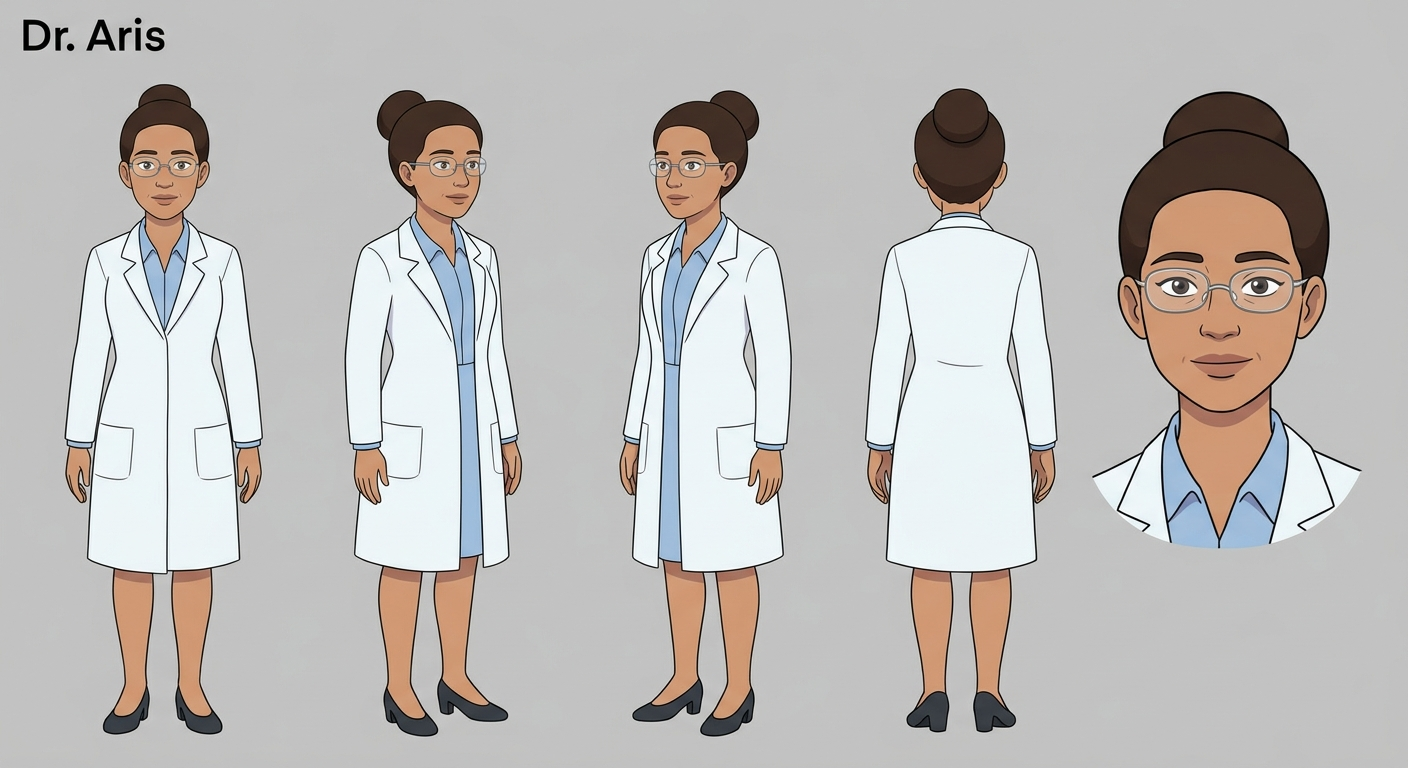
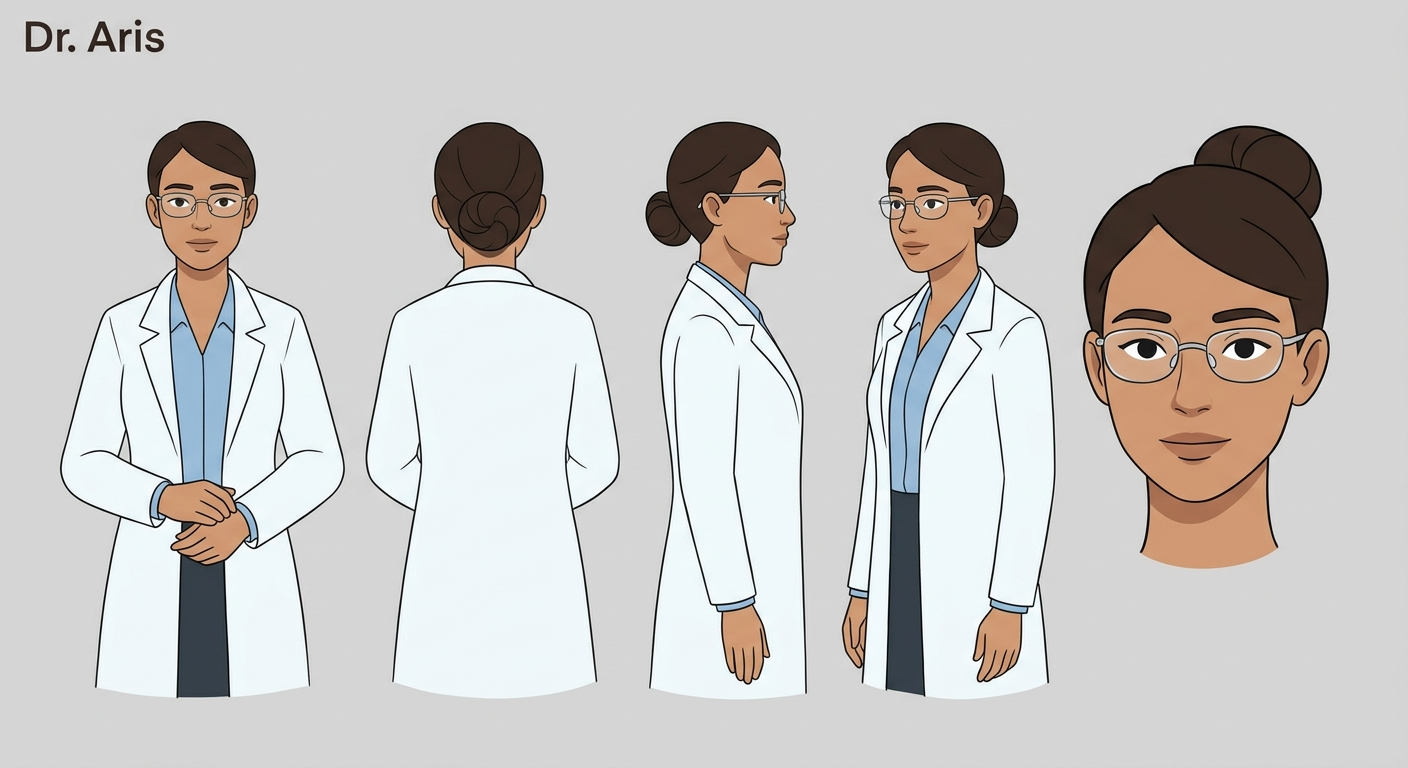
fixed delete files issue and updated character reference generation - Youssef

diff --git a/BackEnd/Image_Generation_Pipeline/Character_Generation/gemini_character_generate.py b/BackEnd/Image_Generation_Pipeline/Character_Generation/gemini_character_generate.py
@@ -61,7 +61,7 @@ def generate_characters(json_script) -> tuple[list[Path], list[str], list[Path]]
     • Maintain the specified visual style throughout the asset.
     • No text should appear in the image other than the character's name (included once in the top left corner of the image). Do not include captions, labels, or extraneous text.
     • The background should be a simple, neutral solid color (e.g., white, beige, or light gray) that does not distract from the character. Avoid complex backgrounds, patterns, scenery, as well as any borders, frames, grids, or dividing lines; the character should appear cleanly presented without visual boundaries.
-    • Show the character from exactly five views within a single image to provide a complete reference set: 1 front view, 2 side views (45 degrees), 1 back view, and 1 dedicated close-up of the face to clearly capture facial features and identity. Do not add additional views, poses, or expressions beyond these specified angles.
+    • Show the character from exactly five views within a single image to provide a complete reference set: 1 front view, 1 back view, 1 side view, 1 angled view (45 degrees), and 1 dedicated close-up of the face to clearly capture facial features and identity. Do not add additional views, poses, or expressions beyond these specified angles.
     • Ensure that there is no overlapping, cropping, or visual obstruction of the character in any of the views. The character should be fully visible and clearly distinguishable in each view.
     
     Your output should create a clear, production-ready character reference asset that can be used consistently throughout the simulation.

diff --git a/BackEnd/api.py b/BackEnd/api.py
@@ -66,7 +66,7 @@ def generate_initial_script(scene_information: SceneInformation, background_task
         
         background_tasks.add_task(gemini_script_generation.delete_uploaded_files, file_ids)
         
-    background_tasks.add_task(md_path.unlink) # delete the merged markdown file after processing
+    background_tasks.add_task(delete_md_file, md_path) # delete the merged markdown file after processing
     
     return {"message": "Initial script generation completed", "script": initial_script}
 
@@ -75,3 +75,8 @@ def generate_initial_script(scene_information: SceneInformation, background_task
 def generate_final_script(modified_script: ModifiedScript) -> dict:
     print("Received modified script:", modified_script.script)
     return {"message": "Final script generation request received"}
+
+
+def delete_md_file(file_path: Path):
+    file_path.unlink()
+    print(f"Successfully deleted {file_path}")

diff --git a/BackEnd/Script_Generation_Pipeline/Script_With_Dpoints/gemini_script_generation.py b/BackEnd/Script_Generation_Pipeline/Script_With_Dpoints/gemini_script_generation.py
@@ -96,7 +96,7 @@ async def delete_uploaded_files(file_names: list):
 async def delete_uploaded_file(client, file_name: str):
     for attempt in range(3):
         try:
-            await client.aio.files.delete(file_name)
+            await client.aio.files.delete(name=file_name)
             print(f"Successfully deleted {file_name}")
             return
         except Exception as e:

diff --git a/BackEnd/Script_Generation_Pipeline/Script_With_Dpoints/anthropic_script_generation.py b/BackEnd/Script_Generation_Pipeline/Script_With_Dpoints/anthropic_script_generation.py
@@ -115,6 +115,7 @@ async def delete_uploaded_file(client, file_id: str):
     for attempt in range(3):
         try:
             await client.beta.files.delete(file_id)
+            print(f"Successfully deleted {file_id}")
             break
         except Exception as e:
             if attempt == 2:
